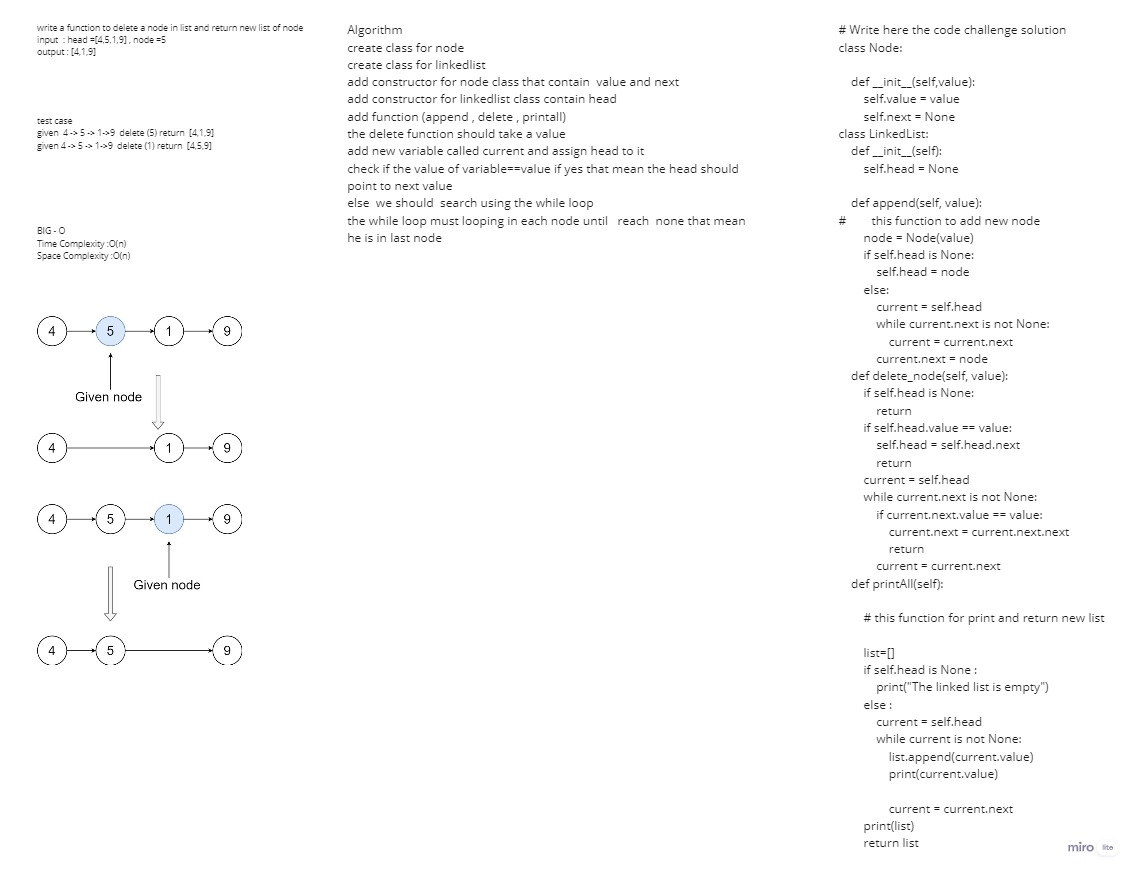
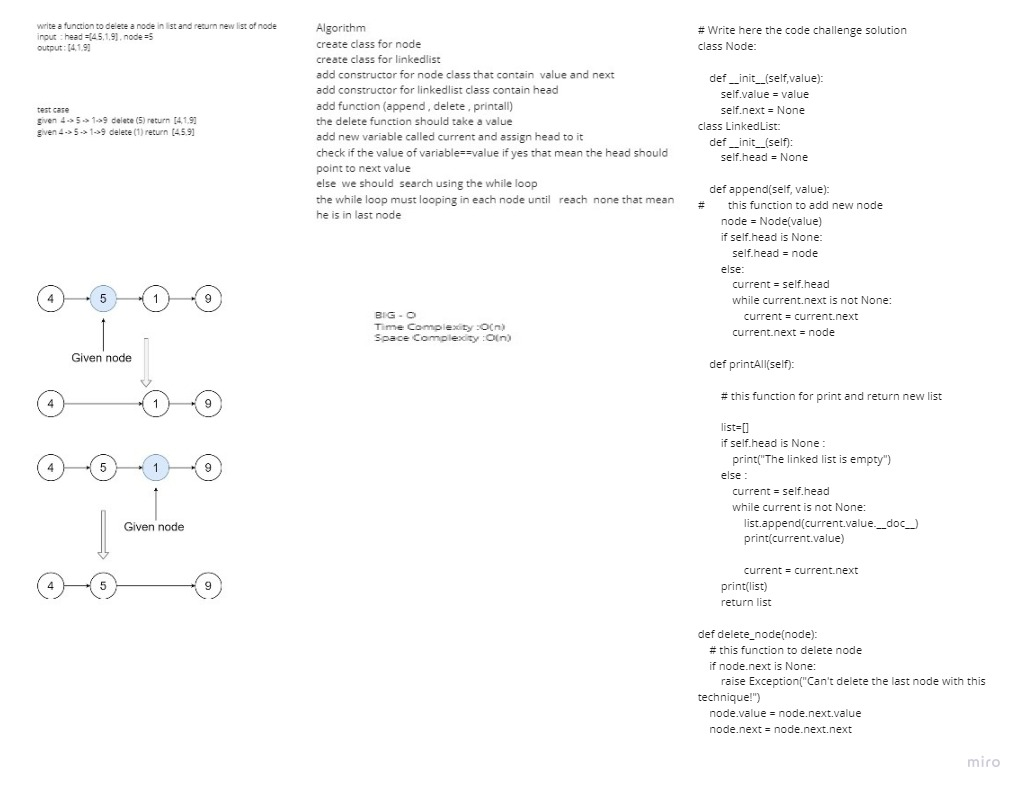
re

diff --git a/python/code_challenges/linkedlist/challenge01/test_challenge01.py b/python/code_challenges/linkedlist/challenge01/test_challenge01.py
@@ -2,34 +2,33 @@ from challenge01 import *
 import pytest
 
 @pytest.fixture
-def linkedList1():
-    linkedList1 = LinkedList()
-    linkedList1.append(4)
-    linkedList1.append(5)
-    linkedList1.append(1)
-    linkedList1.append(9)
-    linkedList1.delete_node(5)
-    x=linkedList1.printAll()
-
-    return x
-@pytest.fixture
-    
 def linkedList2():
-    linkedList2 = LinkedList()
-    linkedList2.append(4)
-    linkedList2.append(5)
-    linkedList2.append(1)
-    linkedList2.append(9)
-    linkedList2.delete_node(1)
-    x=linkedList2.printAll()
-    return x
+    ll = LinkedList()
+    ll.append(4)
+    ll.append(5)
+    ll.append(1)
+    ll.append(9)
+    delete_node(ll.head.next)
+    return ll.printAll()
+     
+    
 
-def test_delete(linkedList1):
-    actual = linkedList1
+@pytest.fixture
+def linkedList3():
+    ll = LinkedList()
+    ll.append(4)
+    ll.append(5)
+    ll.append(1)
+    ll.append(9)
+    delete_node(ll.head.next.next)
+    return ll.printAll()
+
+def test_delete(linkedList2):
+    actual = linkedList2
     expected = [4,1,9]
     assert actual == expected
 
-def test_delete_1(linkedList2):
-    actual = linkedList2
+def test_delete_1(linkedList3):
+    actual = linkedList3
     expected =[4,5,9]
     assert actual == expected

diff --git a/python/code_challenges/linkedlist/challenge01/challenge01.py b/python/code_challenges/linkedlist/challenge01/challenge01.py
@@ -19,18 +19,7 @@ class LinkedList:
             while current.next is not None:
                 current = current.next
             current.next = node
-    def delete_node(self, value):
-        if self.head is None:
-            return
-        if self.head.value == value:
-            self.head = self.head.next
-            return
-        current = self.head
-        while current.next is not None:
-            if current.next.value == value:
-                current.next = current.next.next
-                return
-            current = current.next
+  
     def printAll(self):
     
         # this function for print and return new list 
@@ -41,9 +30,17 @@ class LinkedList:
         else :
             current = self.head
             while current is not None:
-                list.append(current.value)
+                list.append(current.value.__doc__)
                 print(current.value)
 
                 current = current.next
         print(list)
         return list
+
+def delete_node(node):
+    # this function to delete node
+    if node.next is None:
+        raise Exception("Can't delete the last node with this technique!")
+    node.value = node.next.value
+    node.next = node.next.next
+    
